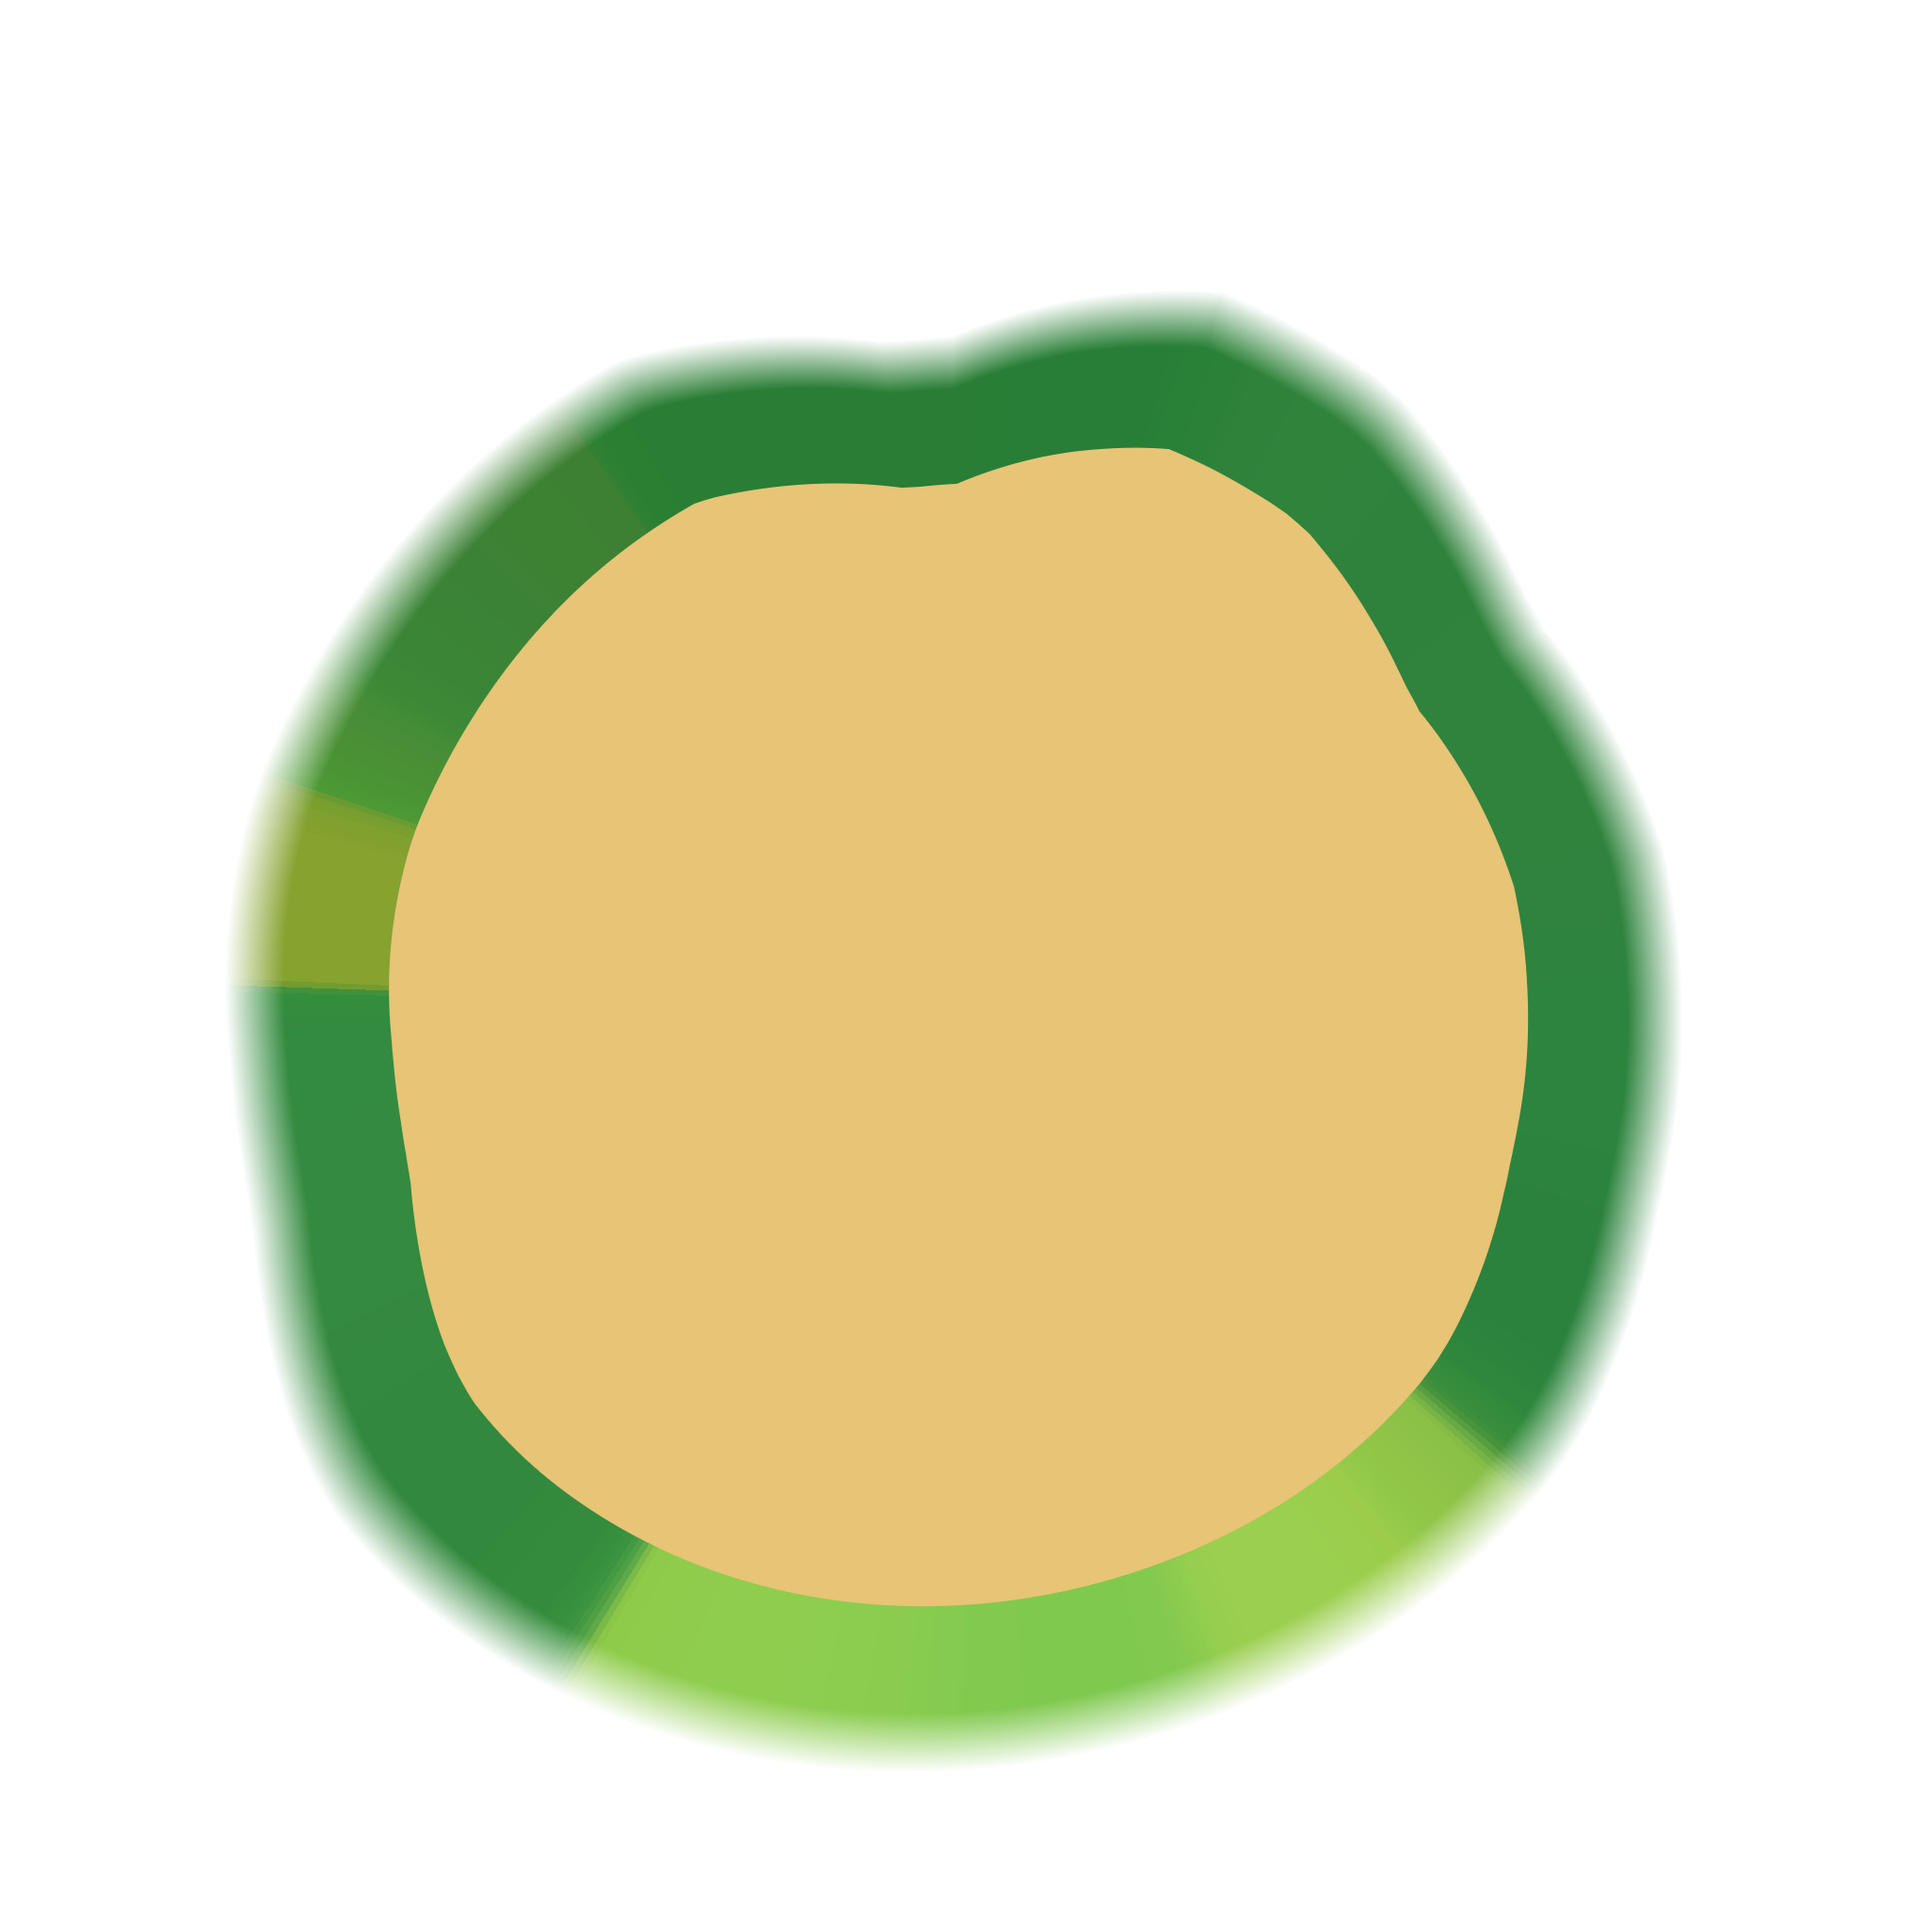
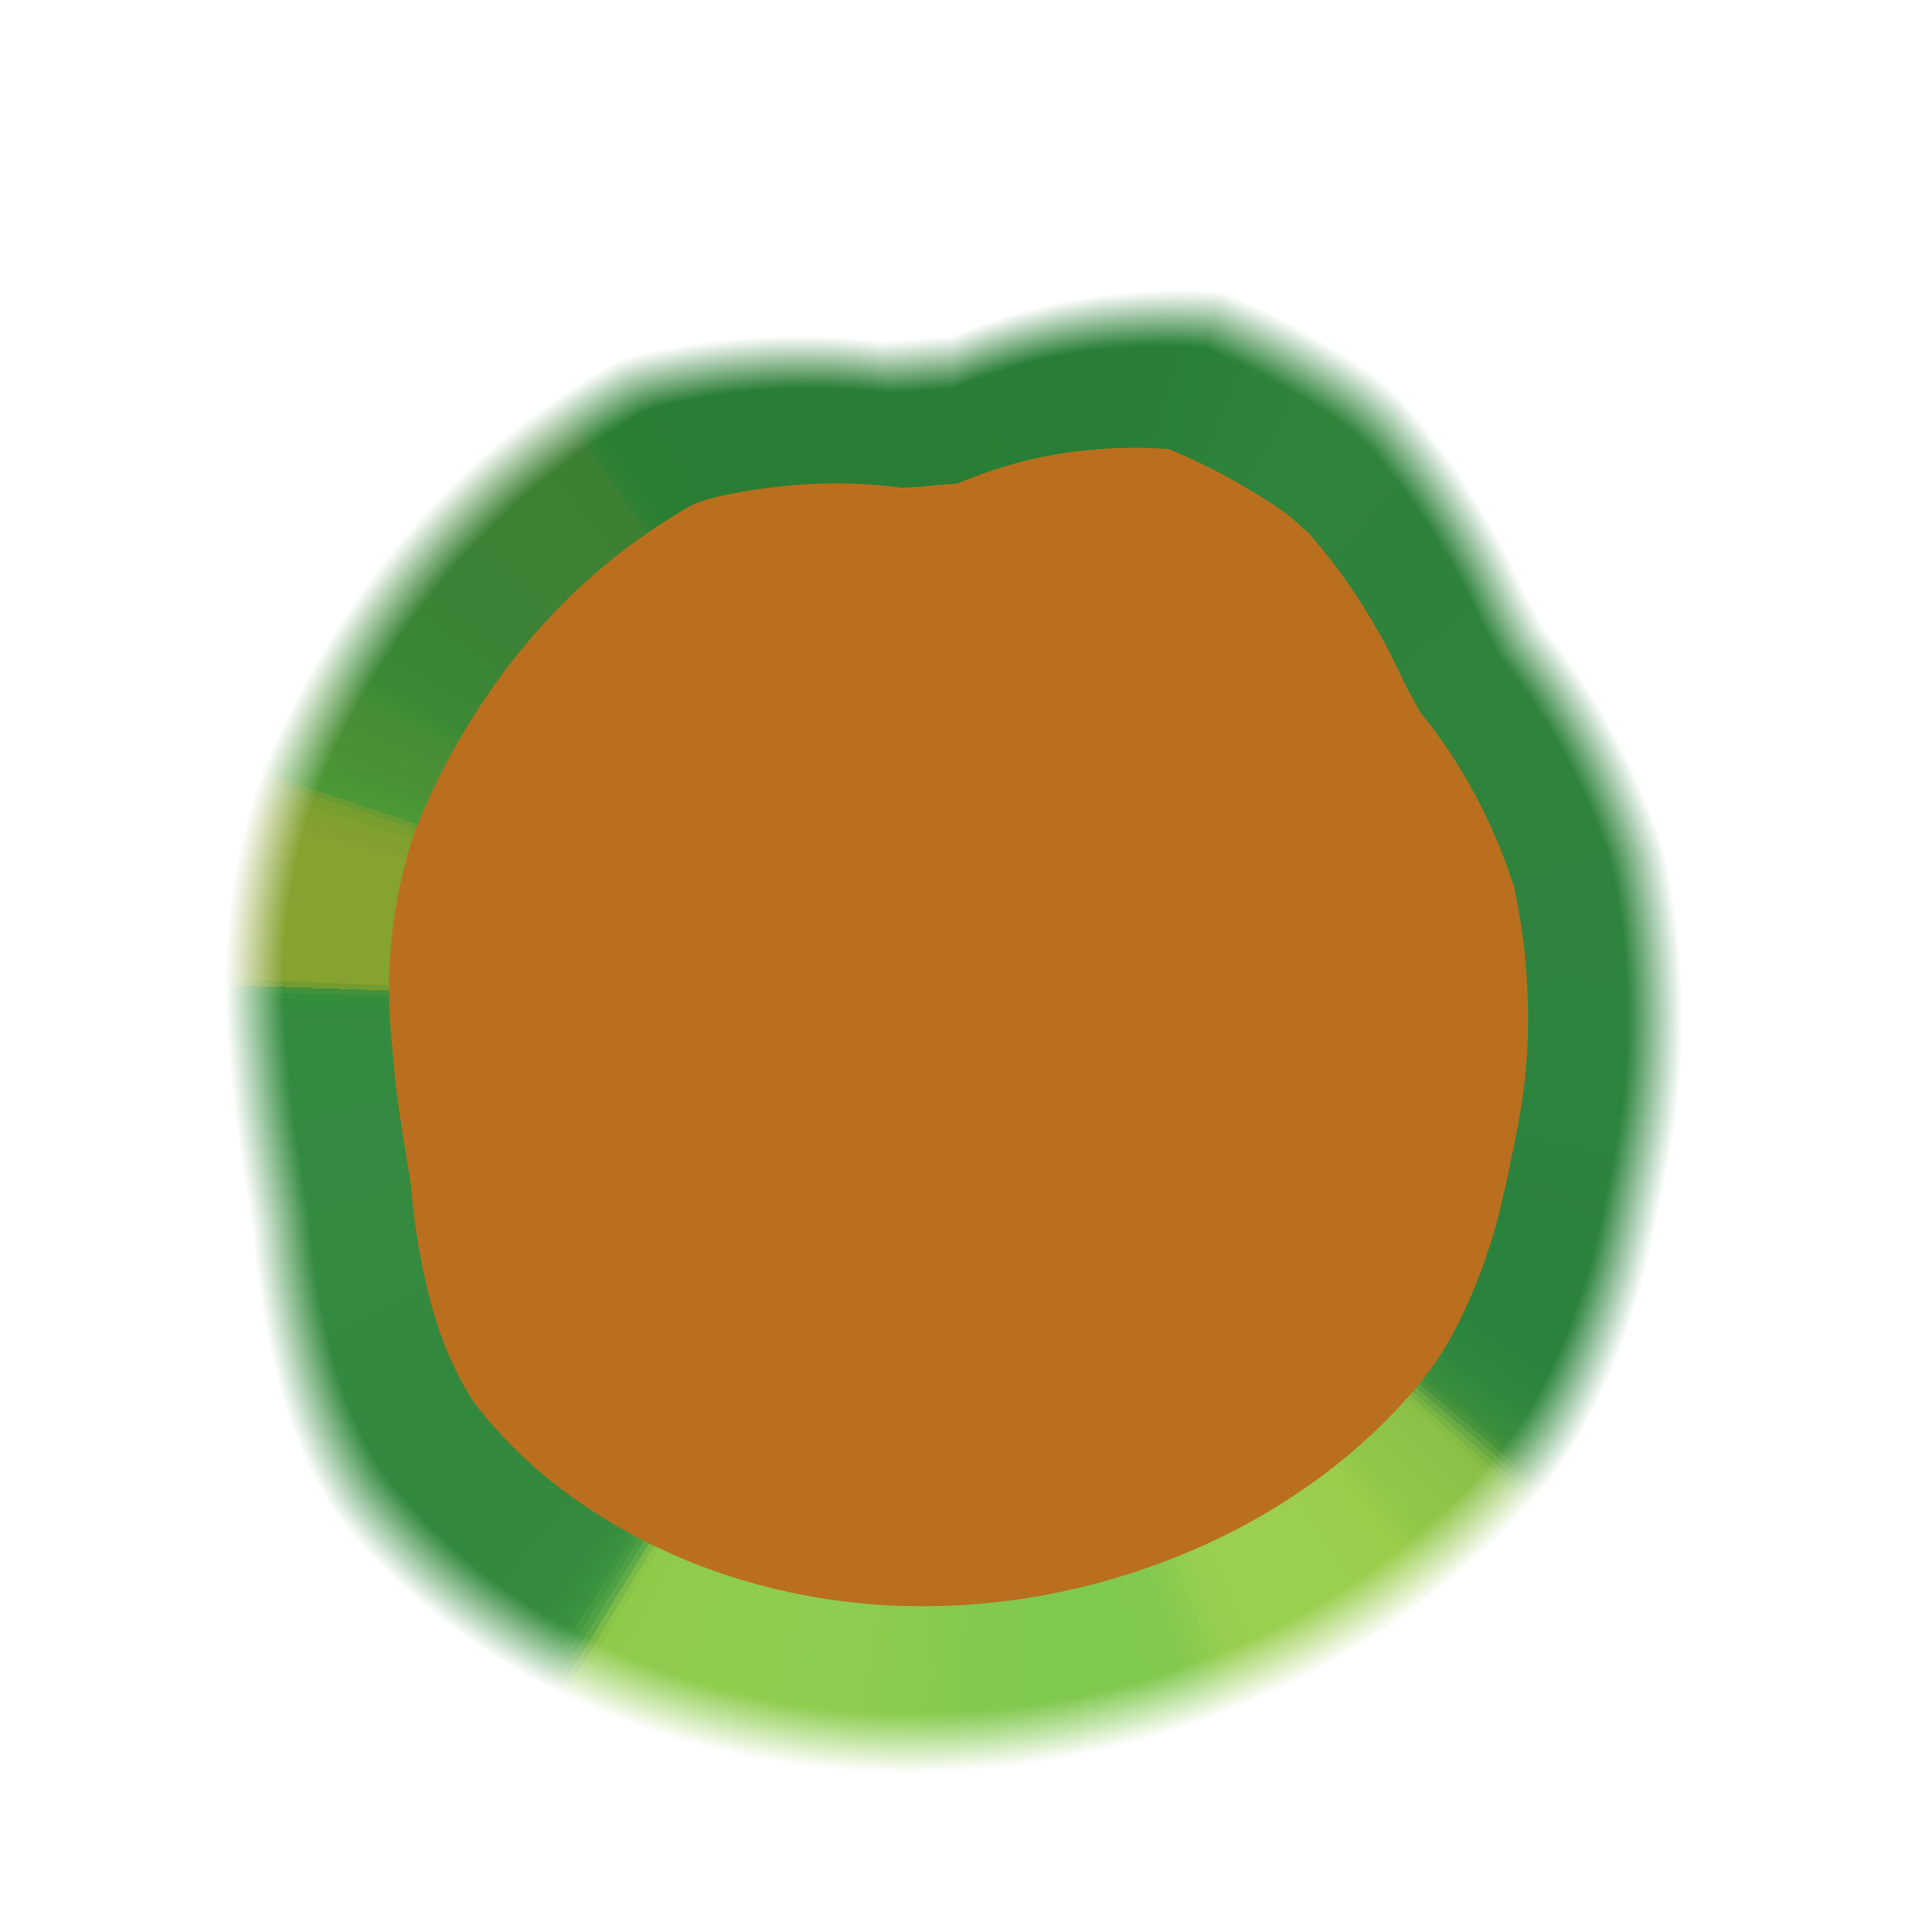
Olhos novos: globo na cor do modelo oficial (#DEB060) e anel da íris âmbar escuro (#DE9C1E)
Claude-Session: https://claude.ai/code/session_01TTv95JaJ6mtbt8CnqE9stn

Changed region(s): [[0.1875, 0.2188, 0.8125, 0.8438]]

diff --git a/kumo-3d-rodin/v6-dev/olhos-novos/src/olhos_novos.py b/kumo-3d-rodin/v6-dev/olhos-novos/src/olhos_novos.py
@@ -88,12 +88,15 @@ ART_R = float(np.hypot(xs + 0.5 - ART_C[0], ys + 0.5 - ART_C[1]).max())         
 BRANCO = A['globo'][int(ART_C[1]), int(ART_C[0]), :3].copy()
 # 25/11, pedido do Caio: o branco do globo em tom dourado suave (#F4E3B5), para não destoar do olho antigo (#E4BF74).
 # O valor vem em sRGB e vai para linear, como a arte que o Blender lê.
-_hex = np.array([0xF4, 0xE3, 0xB5], np.float32) / 255
+_hex = np.array([0xDE, 0xB0, 0x60], np.float32) / 255   # 26/11: a cor do globo do modelo oficial (renders/face-front.png)
 BRANCO = np.where(_hex <= 0.04045, _hex / 12.92, ((_hex + 0.055) / 1.055) ** 2.4).astype(np.float32)
 REP['arte'] = {'centro_px': ART_C.round(1).tolist(), 'raio_externo_px': round(ART_R, 1), 'branco': BRANCO.round(3).tolist()}
 # a imagem do decal: íris com a pupila por cima, no quadro da arte
 if os.path.exists(IRIS_PUPILA):
     ip = ler(IRIS_PUPILA)
+    # 26/11: o anel da íris em âmbar escuro (#DE9C1E), como no olho antigo; a arte tinha um âmbar mais claro
+    anel = (ip[..., 3] > 0.5) & (ip[..., 0] > 0.5) & (ip[..., 2] < 0.6)
+    ip[anel, 0:3] = np.array([0xDE, 0x9C, 0x1E], np.float32) / 255 * np.array([1, 1, 1], np.float32)
     # só a elipse da íris (a imagem tem um ponto solto perto da borda de baixo)
     yy_, xx_ = np.nonzero((ip[..., 3] > 0.5) & (ip[..., 0] > 0.5))
     cx_, cy_ = (xx_.min() + xx_.max()) / 2, (yy_.min() + yy_.max()) / 2; ax_, ay_ = (xx_.max() - xx_.min()) / 2 + 3, (yy_.max() - yy_.min()) / 2 + 3
